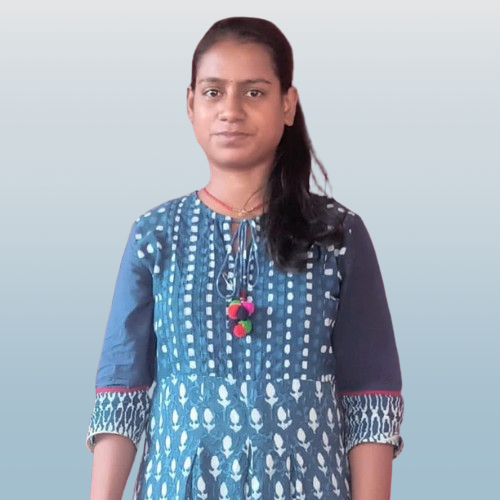
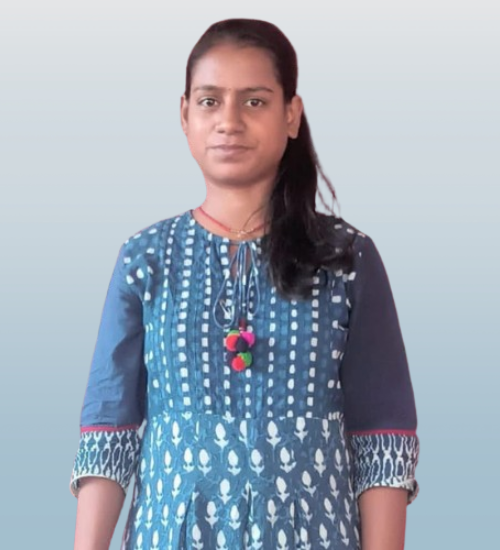
updated pic size

Changed region(s): [[0.12, 0.03, 0.84, 1.0]]

diff --git a/team.html b/team.html
@@ -213,6 +213,41 @@
                     <div class="team-item rounded flip-card-inner">
                         <div class="flip-card-front">
                             <div class="team-img rounded-top h-100">
+                                <img src="img/team/abodh.png" class="img-fluid rounded-top w-100" alt="">
+                            </div>
+                            <div class="team-content text-center border border-primary border-top-0 rounded-bottom p-4">
+                                <h5>Abodh Kumar</h5>
+                                <p class="mb-0">Advisor</p>
+                            </div>
+                        </div>
+                        <div class="flip-card-back">
+                            <div class="team-content text-center border border-primary border-top-0 rounded-top pt-2">
+                                <h4>Abodh Kumar</h4>
+                            </div>
+                            <div class="team-intro rounded-bottom p-3">
+                                <p class="mb-4 mt-2">
+                                    Abodh Ji is a humble, kind, and lifelong learner dedicated to bringing positive
+                                    change to the community. With a deep love for theater, he aims to provide employment
+                                    and career opportunities to around 1 lakh youth, driven by his ultimate dream of
+                                    seeing others achieve their dreams through his work, showcasing his selfless
+                                    dedication and vision for a brighter future.</p>
+
+                                </p>
+                                <p class="mb-4">Ha has a Postgraduate Diploma in Leadership Development from Azim Premji
+                                    University, Bengaluru and his drive toward personal development and community impact
+                                    has led him to lead all our community activities and bring key on-ground insights to
+                                    our strategic decisions.</p>
+                                <p class="mb-4">
+                                    With 20 years in the development sector and as Co-Founder of NGO Project Potential, Abodh's leadership drives impactful community activities and provides valuable field insights. He helps our organization grow by expanding networks, diversifying funding, and strengthening our mission. Abodh is a true inspiration, guiding our path to growth and amplifying our community impact.
+                                    </p>
+                            </div>
+                        </div>
+                    </div>
+                </div>
+                <div class="col-md-6 col-lg-6 col-xl-4 wow fadeInUp flip-card pb-5" data-wow-delay="0.5s">
+                    <div class="team-item rounded flip-card-inner">
+                        <div class="flip-card-front">
+                            <div class="team-img rounded-top h-100">
                                 <img src="img/team/a6.png" class="img-fluid rounded-top w-100" alt="">
                             </div>
                             <div class="team-content text-center border border-primary border-top-0 rounded-bottom p-4">
@@ -226,17 +261,13 @@
                             </div>
                             <div class="team-intro rounded-bottom p-3">
                                 <p class="mb-4">
-                                    I was born and raised in the culturally vibrant town of Kishanganj, Bihar, where I
-                                    also completed my schooling. My journey took a transformative turn when I became an
-                                    alumna of two NGOs, Project Potential and Navgurukul Organisation. These experiences
-                                    not only impacted me personally but also positively influenced my family and
-                                    community.</p>
-                                <p class="mb-4">I am grateful to the social workers who turned my life from thorns to
-                                    roses, inspiring me to give back to my community and uplift the weaker sections of
-                                    society. Professionally, I am a self-taught Software Engineer working in tech
-                                    Industry
-                                    from last five years, utilizing my skills to make
-                                    meaningful contributions to the technological landscape.</p>
+                                    I was born and raised in the culturally vibrant town of Kishanganj, Bihar, where I 
+                                    completed my schooling. My journey transformed when I became an alumna of two NGOs, 
+                                    Project Potential and Navgurukul Organisation, positively impacting me, my family, 
+                                    and my community.</p>
+                                <p class="mb-4">I am grateful to the social workers who transformed my life, inspiring 
+                                    me to uplift my community. Professionally, I am a self-taught Software Engineer with 
+                                    five years in the tech industry, using my skills to make meaningful contributions.</p>
 
                                 <p class="mb-4">I have a soft corner for the social sector and a strong curiosity to
                                     work
@@ -398,46 +429,7 @@
                         <div class="row g-4 justify-content-center">
 
 
-             <div class="col-md-6 col-lg-6 col-xl-4 wow fadeInUp flip-card pb-5" data-wow-delay="0.5s">
-                    <div class="team-item rounded flip-card-inner">
-                        <div class="flip-card-front">
-                            <div class="team-img rounded-top h-100">
-                                <img src="img/team/abodh.png" class="img-fluid rounded-top w-100" alt="">
-                            </div>
-                            <div class="team-content text-center border border-primary border-top-0 rounded-bottom p-4">
-                                <h5>Abodh Kumar</h5>
-                                <p class="mb-0">Advisor</p>
-                            </div>
-                        </div>
-                        <div class="flip-card-back">
-                            <div class="team-content text-center border border-primary border-top-0 rounded-top pt-2">
-                                <h4>Abodh Kumar</h4>
-                            </div>
-                            <div class="team-intro rounded-bottom p-3">
-                                <p class="mb-4 mt-2">
-                                    Abodh Ji is a humble, kind, and lifelong learner dedicated to bringing positive
-                                    change to the community. With a deep love for theater, he aims to provide employment
-                                    and career opportunities to around 1 lakh youth, driven by his ultimate dream of
-                                    seeing others achieve their dreams through his work, showcasing his selfless
-                                    dedication and vision for a brighter future.</p>
-
-                                </p>
-                                <p class="mb-4">Ha has a Postgraduate Diploma in Leadership Development from Azim Premji
-                                    University, Bengaluru and his drive toward personal development and community impact
-                                    has led him to lead all our community activities and bring key on-ground insights to
-                                    our strategic decisions.</p>
-                                <p class="mb-4">
-                                    With 20 years of development sector experience and as a Co-Founder of NGO Project
-                                    Potential, Abodh's leadership is instrumental in driving impactful community
-                                    activities and providing valuable insights from the field that help make smart
-                                    decisions. He guides our organization to grow by connecting to a strong network,
-                                    diversifying funding sources, and strengthening the core mission. He is a true
-                                    inspiration, showing us the path to growth as an organization and amplifying our
-                                    impact on the community." </p>
-                            </div>
-                        </div>
-                    </div>
-                </div>
+            
 
                 <div class="col-md-6 col-lg-6 col-xl-4 wow fadeInUp flip-card pb-5" data-wow-delay="0.5s">
                     <div class="team-item rounded flip-card-inner">

diff --git a/partners.html b/partners.html
@@ -271,6 +271,127 @@
                     </p>
             </div>
 
+            <div class="container-fluid py-3">
+                <div class="container">
+                
+                    <div class="row g-4 justify-content-center">
+
+
+        
+
+            <div class="col-md-6 col-lg-6 col-xl-4 wow fadeInUp flip-card pb-5" data-wow-delay="0.5s">
+                <div class="team-item rounded flip-card-inner">
+                    <div class="flip-card-front">
+                        <div class="team-img rounded-top h-100">
+                            <img src="img/team/Yogendra Choubey.png" class="img-fluid rounded-top w-100" alt="">
+                        </div>
+                        <div class="team-content text-center border border-primary border-top-0 rounded-bottom p-4">
+                            <h5>Yogendra Choubey</h5>
+                            <p class="mb-0">Advisor</p>
+                        </div>
+                    </div>
+                    <div class="flip-card-back">
+                        <div class="team-content text-center border border-primary border-top-0 rounded-top pt-2">
+                            <h4>Yogendra Choubey</h4>
+                        </div>
+                        <div class="team-intro rounded-bottom p-3">
+                            <p class="mb-4 mt-2">
+                                Experienced and accomplished professional with a decade of dedicated service in 
+                                India's Public Education System. Expert in consulting with Government School
+                                Headmasters and teachers, providing valuable guidance on leadership competencies.
+                                Proven track record of delivering successful teacher capacity building workshops. 
+                            </p>
+                            <p class="mb-4">Skilled in community outreach, stakeholder relationship building, 
+                                communication, and management. Proficient in monitoring fellowship programs and 
+                                evaluating academic leadership initiatives. In-depth knowledge of education tools
+                                 to enhance child learning outcomes. </p>
+                            <p class="mb-4"> Vast experience in strengthening school processes, 
+                                including library development and innovative learning opportunities. 
+                                Passionate about creating new avenues for learning in government schools. 
+                                A driven professional contributing to the advancement of education.</p>
+                            </p>
+                        </div>
+                    </div>
+                </div>
+            </div>
+
+            <div class="col-md-6 col-lg-6 col-xl-4 wow fadeInUp flip-card pb-5" data-wow-delay="0.5s">
+                <div class="team-item rounded flip-card-inner">
+                    <div class="flip-card-front">
+                        <div class="team-img rounded-top h-100">
+                            <img src="img/team/Shravan Kumar Jha.png" class="img-fluid rounded-top w-100" alt="">
+                        </div>
+                        <div class="team-content text-center border border-primary border-top-0 rounded-bottom p-4">
+                            <h5>Shravan Kumar Jha</h5>
+                            <p class="mb-0">Advisor</p>
+                        </div>
+                    </div>
+                    <div class="flip-card-back">
+                        <div class="team-content text-center border border-primary border-top-0 rounded-top pt-2">
+                            <h4>Shravan Kumar Jha</h4>
+                        </div>
+                        <div class="team-intro rounded-bottom p-3">
+                            <p class="mb-4 mt-2">
+                                Shravan Kumar Jha, Co-Founder and Chief Knowledge Officer (CKO) of i-Saksham,
+                                 holds an MBA from Symbiosis, Pune, and has over 12 years of experience in Women’s
+                                  Financial Inclusion, Gender, Government flagship schemes, and Education.
+                            </p>
+                            <p class="mb-4">Before founding i-Saksham in 2015, Shravan worked in the microfinance 
+                                sector for four years and served as a Prime Minister Rural Development Fellow (PMRDF)
+                                 for three and a half years, contributing significantly to rural development. </p>
+
+                            <p class="mb-4"> Recognized as an Acumen Fellow in 2016, Shravan’s dedication and
+                                 leadership in social change continue to inspire and guide our mission.
+                                  His expertise and commitment make him an invaluable advisor to our organization.
+                
+                            </p>
+                        </div>
+                    </div>
+                </div>
+            </div>
+
+            <div class="col-md-6 col-lg-6 col-xl-4 wow fadeInUp flip-card pb-5" data-wow-delay="0.5s">
+                <div class="team-item rounded flip-card-inner">
+                    <div class="flip-card-front">
+                        <div class="team-img rounded-top h-100">
+                            <img src="img/team/Krishna.png" class="img-fluid rounded-top w-100" alt="">
+                        </div>
+                        <div class="team-content text-center border border-primary border-top-0 rounded-bottom p-4">
+                            <h5>Krishna</h5>
+                            <p class="mb-0">Advisor</p>
+                        </div>
+                    </div>
+                    <div class="flip-card-back">
+                        <div class="team-content text-center border border-primary border-top-0 rounded-top pt-2">
+                            <h4>Krishna</h4>
+                        </div>
+                        <div class="team-intro rounded-bottom p-3">
+                            <p class="mb-4 mt-2">
+                                Krishna leads Bihar operations and government liaison at Youth Dreamers Foundation (YDF). 
+                                With a master’s in Rural Management and Development from Patna University, he brings strategic
+                                 insights and local expertise. His deep commitment to Bihar and past role as a hospital administrator
+                                  underscore his dedication to sustainable development.
+                            </p>
+                            <p class="mb-4">Born and raised in Bihar, Krishna's personal connection fuels his mission to empower
+                                 communities through YDF's initiatives. His leadership is proactive and driven by a passion for
+                                  positive change. Krishna's blend of professional acumen and personal drive makes him a dynamic
+                                   force in YDF's efforts to empower Bihar's youth.</p>
+                            <p class="mb-4"> Krishna's leadership style is enriched by interests in sports and travel, reflecting 
+                                his holistic approach to community development. His strategic vision and hands-on experience drive
+                                 YDF's mission, making impactful contributions to Bihar's socio-economic landscape.
+
+                            </p>
+                            <p class="mb-4">
+                            </p>
+                        </div>
+                    </div>
+                </div>
+            </div>
+            </div>
+           
+        </div>
+    </div>
+
 
         </div>
     </div>
